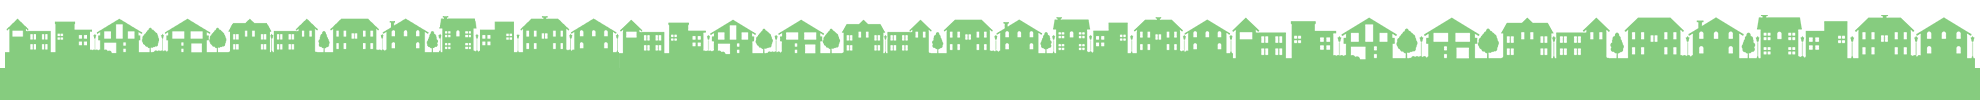
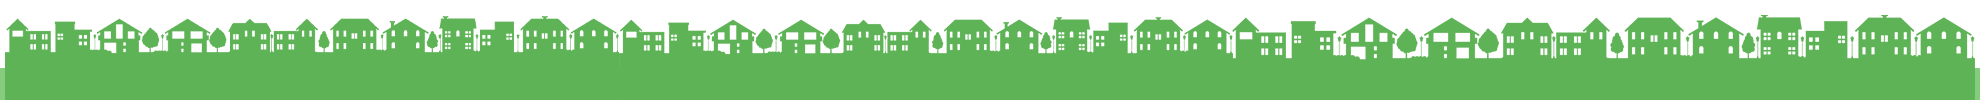
TOPページのalt修正
TOPページのalt修正

岡田

diff --git a/public/html/index.html b/public/html/index.html
@@ -50,9 +50,14 @@
 
                 <ul class="hamburger-menu">
                     <li>
+                        <a href="#">
+                            <img src="../assets/images/site_logo/logo.png" alt="TOPへ戻る">
+                        </a>
+                    </li>
+                    <li>
                         <a href="../html/station_list.html">
 
-                            <img src="../assets/images/menu_icon/station_list_icon.png" alt="" width="30" height="30">
+                            <img src="../assets/images/menu_icon/station_list_icon.png" alt="道の駅一覧" width="30" height="30">
 
                             道の駅一覧
                         </a>
@@ -62,7 +67,7 @@
                     <li>
                         <a href="../html/station_area.html">
 
-                            <img src="../assets/images/menu_icon/station_area_icon.png" alt="" width="30" height="30">
+                            <img src="../assets/images/menu_icon/station_area_icon.png" alt="エリア検索" width="30" height="30">
 
                             エリア検索
                         </a>
@@ -70,7 +75,7 @@
                     <li>
                         <a href="../html/station_detail.html">
 
-                            <img src="../assets/images/menu_icon/station_detail_icon.png" alt="" width="30" height="30">
+                            <img src="../assets/images/menu_icon/station_detail_icon.png" alt="詳細検索" width="30" height="30">
 
                             詳細検索
                         </a>
@@ -78,7 +83,7 @@
                     <li>
                         <a href="../html/goods_list.html">
 
-                            <img src="../assets/images/menu_icon/goods_list_icon.png" alt="" width="30" height="30">
+                            <img src="../assets/images/menu_icon/goods_list_icon.png" alt="特産品" width="30" height="30">
 
                             特産品
                         </a>
@@ -86,7 +91,7 @@
                     <li>
                         <a href="../html/activity_list.html">
 
-                            <img src="../assets/images/menu_icon/activity_list_icon.png" alt="" width="30" height="30">
+                            <img src="../assets/images/menu_icon/activity_list_icon.png" alt="体験" width="30" height="30">
 
                             体験
                         </a>
@@ -94,7 +99,7 @@
                     <li>
                         <a href="../html/blog_list.html">
 
-                            <img src="../assets/images/menu_icon/blog_list_icon.png" alt="" width="35" height="35">
+                            <img src="../assets/images/menu_icon/blog_list_icon.png" alt="ブログ" width="35" height="35">
 
                             行ってきたんよ
                         </a>
@@ -102,7 +107,7 @@
                     <li>
                         <a href="../html/like.html">
 
-                            <img src="../assets/images/menu_icon/like_icon.png" alt="" width="30" height="30">
+                            <img src="../assets/images/menu_icon/like_icon.png" alt="お気に入り" width="30" height="30">
 
                             お気に入り
                         </a>
@@ -130,7 +135,7 @@
                 <li>
                     <a href="../html/station_list.html">
                         <div>
-                            <img src="../assets/images/menu_icon/station_list_icon.png" alt="" width="30" height="30">
+                            <img src="../assets/images/menu_icon/station_list_icon.png" alt="道の駅一覧" width="30" height="30">
                         </div>
                         道の駅一覧
                     </a>
@@ -140,7 +145,7 @@
                 <li>
                     <a href="../html/station_area.html">
                         <div>
-                            <img src="../assets/images/menu_icon/station_area_icon.png" alt="" width="30" height="30">
+                            <img src="../assets/images/menu_icon/station_area_icon.png" alt="エリア検索" width="30" height="30">
                         </div>
                         エリア検索
                     </a>
@@ -148,7 +153,7 @@
                 <li>
                     <a href="../html/station_detail.html">
                         <div>
-                            <img src="../assets/images/menu_icon/station_detail_icon.png" alt="" width="30" height="30">
+                            <img src="../assets/images/menu_icon/station_detail_icon.png" alt="詳細検索" width="30" height="30">
                         </div>
                         詳細検索
                     </a>
@@ -156,7 +161,7 @@
                 <li>
                     <a href="../html/goods_list.html">
                         <div>
-                            <img src="../assets/images/menu_icon/goods_list_icon.png" alt="" width="30" height="30">
+                            <img src="../assets/images/menu_icon/goods_list_icon.png" alt="特産品" width="30" height="30">
                         </div>
                         特産品
                     </a>
@@ -164,7 +169,7 @@
                 <li>
                     <a href="../html/activity_list.html">
                         <div>
-                            <img src="../assets/images/menu_icon/activity_list_icon.png" alt="" width="30" height="30">
+                            <img src="../assets/images/menu_icon/activity_list_icon.png" alt="体験" width="30" height="30">
                         </div>
                         体験
                     </a>
@@ -172,7 +177,7 @@
                 <li>
                     <a href="../html/blog_list.html">
                         <div>
-                            <img src="../assets/images/menu_icon/blog_list_icon.png" alt="" width="35" height="35">
+                            <img src="../assets/images/menu_icon/blog_list_icon.png" alt="ブログ" width="35" height="35">
                         </div>
                         行ってきたんよ
                     </a>
@@ -180,7 +185,7 @@
                 <li>
                     <a href="../html/like.html">
                         <div>
-                            <img src="../assets/images/menu_icon/like_icon.png" alt="" width="30" height="30">
+                            <img src="../assets/images/menu_icon/like_icon.png" alt="お気に入り" width="30" height="30">
                         </div>
                         お気に入り
                     </a>
@@ -234,19 +239,19 @@
         <section>
             <div class="section-title01">
                 <!-- 車のイラスト -->
-                <div class="headline-anime01"><img src="../assets/images/illustrations/tanuki-activity2.png" width="200px" alt=""></div>
+                <div class="headline-anime01"><img src="../assets/images/illustrations/tanuki-activity2.png" width="200px" alt="イラスト"></div>
 
                 <!-- たぬみちのイラスト -->
-                <div class="headline-anime02"><img src="../assets/images/illustrations/tanuki-gourmet.png" width="200px" alt=""></div>
+                <div class="headline-anime02"><img src="../assets/images/illustrations/tanuki-gourmet.png" width="200px" alt="イラスト"></div>
                 <h2>こんなんあるで！</h2>
             </div>
 
             <div class="goods-wrapper">
                 <ul class="goods">
-                    <li><img class="image-tile" src="../assets/images/index/mikan.jpg" alt=""></li>
-                    <li><img class="image-tile" src="../assets/images/index/otaniyaki.jpg" alt=""></li>
-                    <li><img class="image-tile" src="../assets/images/index/renkon.jpg" alt=""></li>
-                    <li><img class="image-tile" src="../assets/images/index/sakana.jpg" alt=""></li>
+                    <li><img class="image-tile" src="../assets/images/index/mikan.jpg" alt="特産品１"></li>
+                    <li><img class="image-tile" src="../assets/images/index/otaniyaki.jpg" alt="特産品２"></li>
+                    <li><img class="image-tile" src="../assets/images/index/renkon.jpg" alt="特産品３"></li>
+                    <li><img class="image-tile" src="../assets/images/index/sakana.jpg" alt="特産品４"></li>
                     <li class="goods-title">
                         <h2 class="sp-h2">特産品</h2>
                         <p class="goods-strapline">徳島には自然の恵みがいっぱいあるんじょ！</p>
@@ -258,10 +263,10 @@
                             もっと見る
                         </a>
                     </li>
-                    <li><img class="image-tile" src="../assets/images/index/sudati.jpg" alt=""></li>
-                    <li><img class="image-tile" src="../assets/images/index/tikuwa.jpg" alt=""></li>
-                    <li><img class="image-tile" src="../assets/images/index/wakame.jpg" alt=""></li>
-                    <li><img class="image-tile" src="../assets/images/index/yakiimo.jpg" alt=""></li>
+                    <li><img class="image-tile" src="../assets/images/index/sudati.jpg" alt="特産品５"></li>
+                    <li><img class="image-tile" src="../assets/images/index/tikuwa.jpg" alt="特産品６"></li>
+                    <li><img class="image-tile" src="../assets/images/index/wakame.jpg" alt="特産品７"></li>
+                    <li><img class="image-tile" src="../assets/images/index/yakiimo.jpg" alt="特産品８"></li>
                 </ul>
                 <a href="../html/goods_list.html">
                     <p class="btn mobile-btn">もっと見る</p>
@@ -270,19 +275,19 @@
 
             <div class="section-title02">
                 <!-- 車のイラスト -->
-                <div class="headline-anime01"><img src="../assets/images/illustrations/east2.png" width="200px" alt=""></div>
+                <div class="headline-anime01"><img src="../assets/images/illustrations/east2.png" width="200px" alt="イラスト"></div>
 
                 <!-- たぬみちのイラスト -->
-                <div class="headline-anime02"><img src="../assets/images/illustrations/tanuki-activity.png" width="200px" alt=""></div>
+                <div class="headline-anime02"><img src="../assets/images/illustrations/tanuki-activity.png" width="200px" alt="イラスト"></div>
 
                 <h2>こんなんやってみ！</h2>
             </div>
             <div class="activity-wrapper">
                 <ul class="activity">
-                    <li><img class="image-tile" src="../assets/images/index/boat.jpg" alt=""></li>
-                    <li><img class="image-tile" src="../assets/images/index/dmv.jpg" alt=""></li>
-                    <li><img class="image-tile" src="../assets/images/index/aizometop.jpg" alt=""></li>
-                    <li><img class="image-tile" src="../assets/images/index/zipline.jpg" alt=""></li>
+                    <li><img class="image-tile" src="../assets/images/index/boat.jpg" alt="体験１"></li>
+                    <li><img class="image-tile" src="../assets/images/index/dmv.jpg" alt="体験２"></li>
+                    <li><img class="image-tile" src="../assets/images/index/aizometop.jpg" alt="体験３"></li>
+                    <li><img class="image-tile" src="../assets/images/index/zipline.jpg" alt="体験４"></li>
                     <li class="activity-title">
                         <h2 class="sp-h2">体験</h2>
                         <p class="activity-strapline">山！川！海！<br>徳島なら全部揃っとるで！</p>
@@ -297,10 +302,10 @@
                     </li>
 
 
-                    <li><img class="image-tile" src="../assets/images/index/hune.jpg" alt=""></li>
-                    <li><img class="image-tile" src="../assets/images/index/asiyu.jpg" alt=""></li>
-                    <li><img class="image-tile" src="../assets/images/index/udon.jpg" alt=""></li>
-                    <li><img class="image-tile" src="../assets/images/index/ropeway.jpg" alt=""></li>
+                    <li><img class="image-tile" src="../assets/images/index/hune.jpg" alt="体験５"></li>
+                    <li><img class="image-tile" src="../assets/images/index/asiyu.jpg" alt="体験６"></li>
+                    <li><img class="image-tile" src="../assets/images/index/udon.jpg" alt="体験７"></li>
+                    <li><img class="image-tile" src="../assets/images/index/ropeway.jpg" alt="体験８"></li>
                 </ul>
                 <a href="../html/activity_list.html">
                     <p class="mobilebtn btn">もっと見る</p>
@@ -371,7 +376,7 @@
     </main>
 
 
-    <img class="footer-line" src="../assets/images/footer/footer.png" alt="">
+    <img class="footer-line" src="../assets/images/footer/footer.png" alt="フッター画像">
     <footer>
 
         <!-- topへ戻るボタン -->

diff --git a/public/assets/css/common.css b/public/assets/css/common.css
@@ -231,7 +231,7 @@ h3 {
 /* フッター */
 footer {
     position: relative;
-    background-color: #86cc7f;
+    background-color: #5eb356;
     width: 100%;
 }
 
